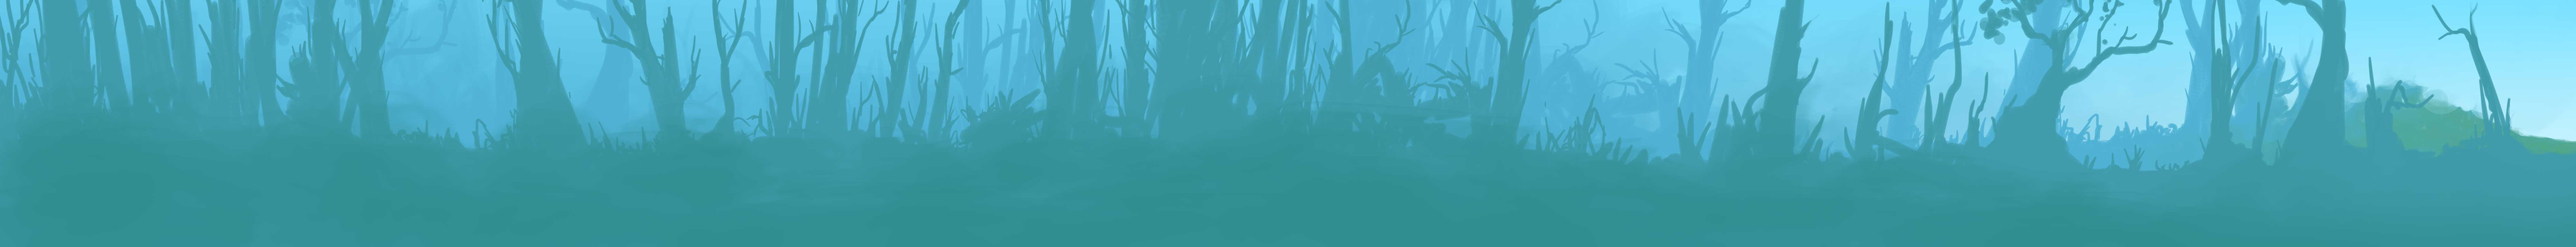
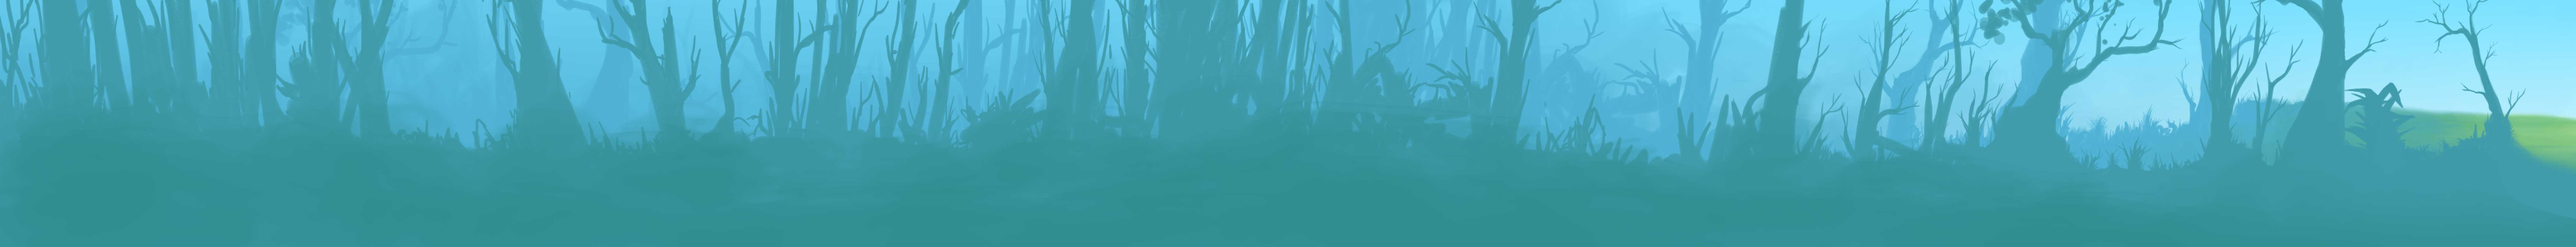
modified title screen, bg graphics, slowed b2 scroll speed

diff --git a/js/gamescene.js b/js/gamescene.js
@@ -63,7 +63,7 @@ GameScene = pc.Scene.extend('GameScene',
         this.gameLayer.addSystem(this.noiseSystem = new NoiseSystem());
 
         var bgs = [['bglayer1', 'bglayer1', 'bglayer1', 'bglayer1', 'bglayer1', 'bglayer1', 'bglayer1e'],
-                   ['bglayer2', 'bglayer2', 'bglayer2', 'bglayer2', 'bglayer2e'],
+                   ['bglayer2', 'bglayer2', 'bglayer2', 'bglayer2e'],
                    ['bglayer3', 'bglayer3e']];
         bgs.forEach(function(imlist, n) {
           var totalWidth = 0;
